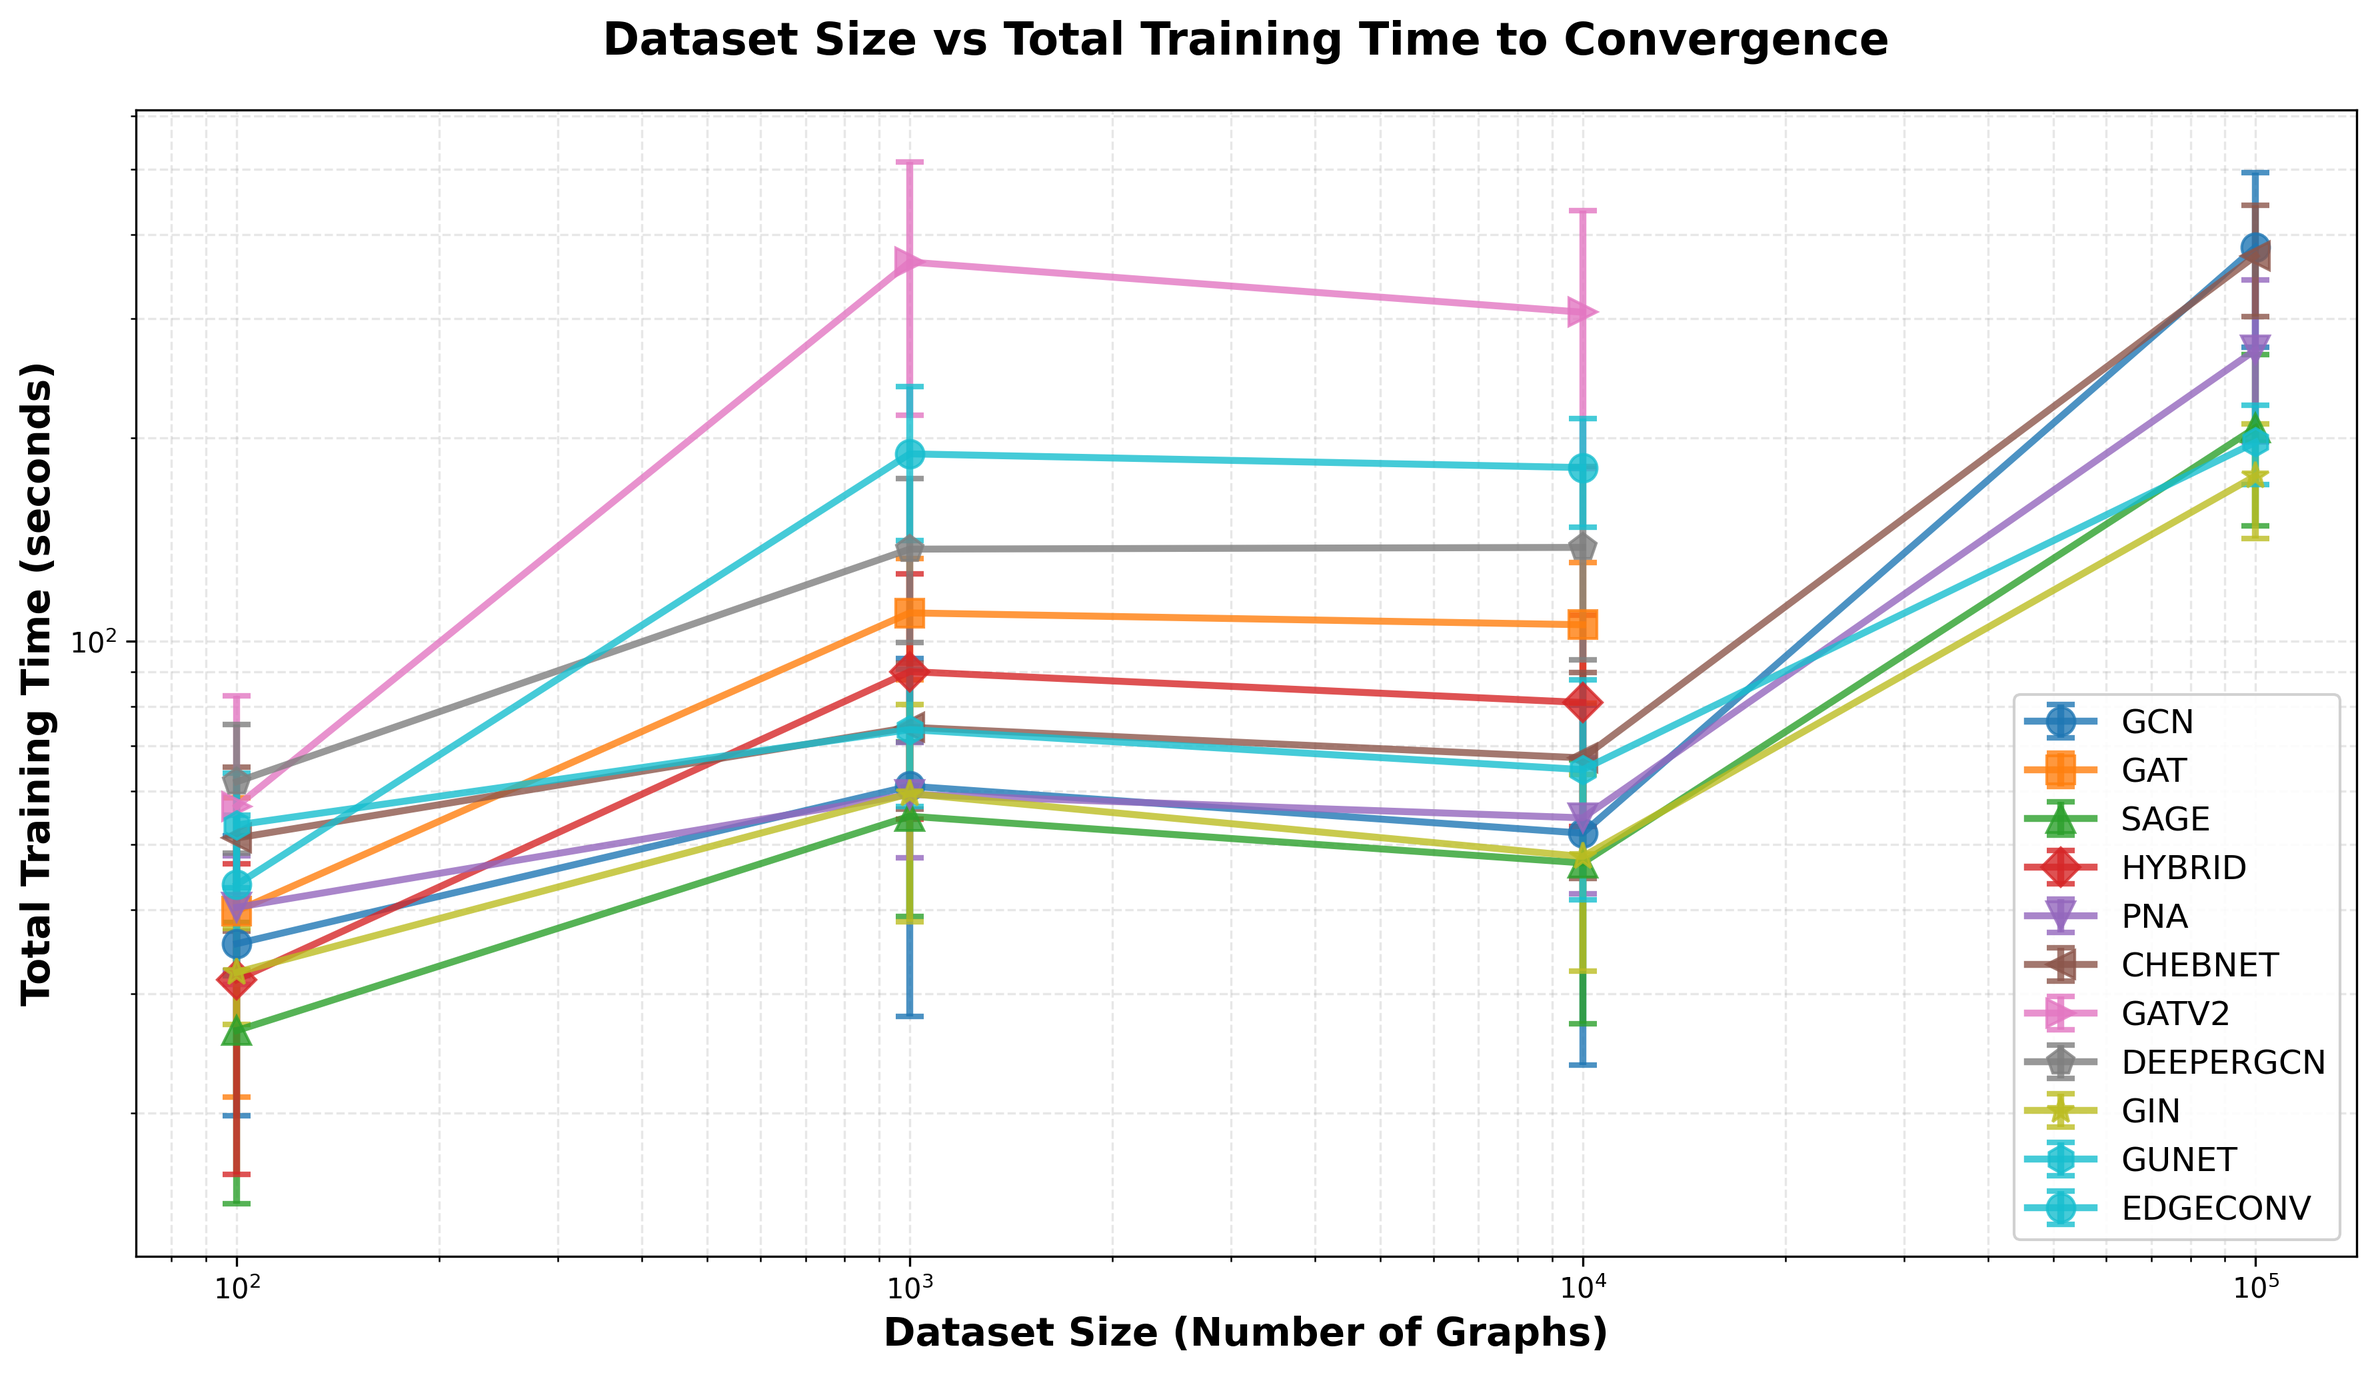
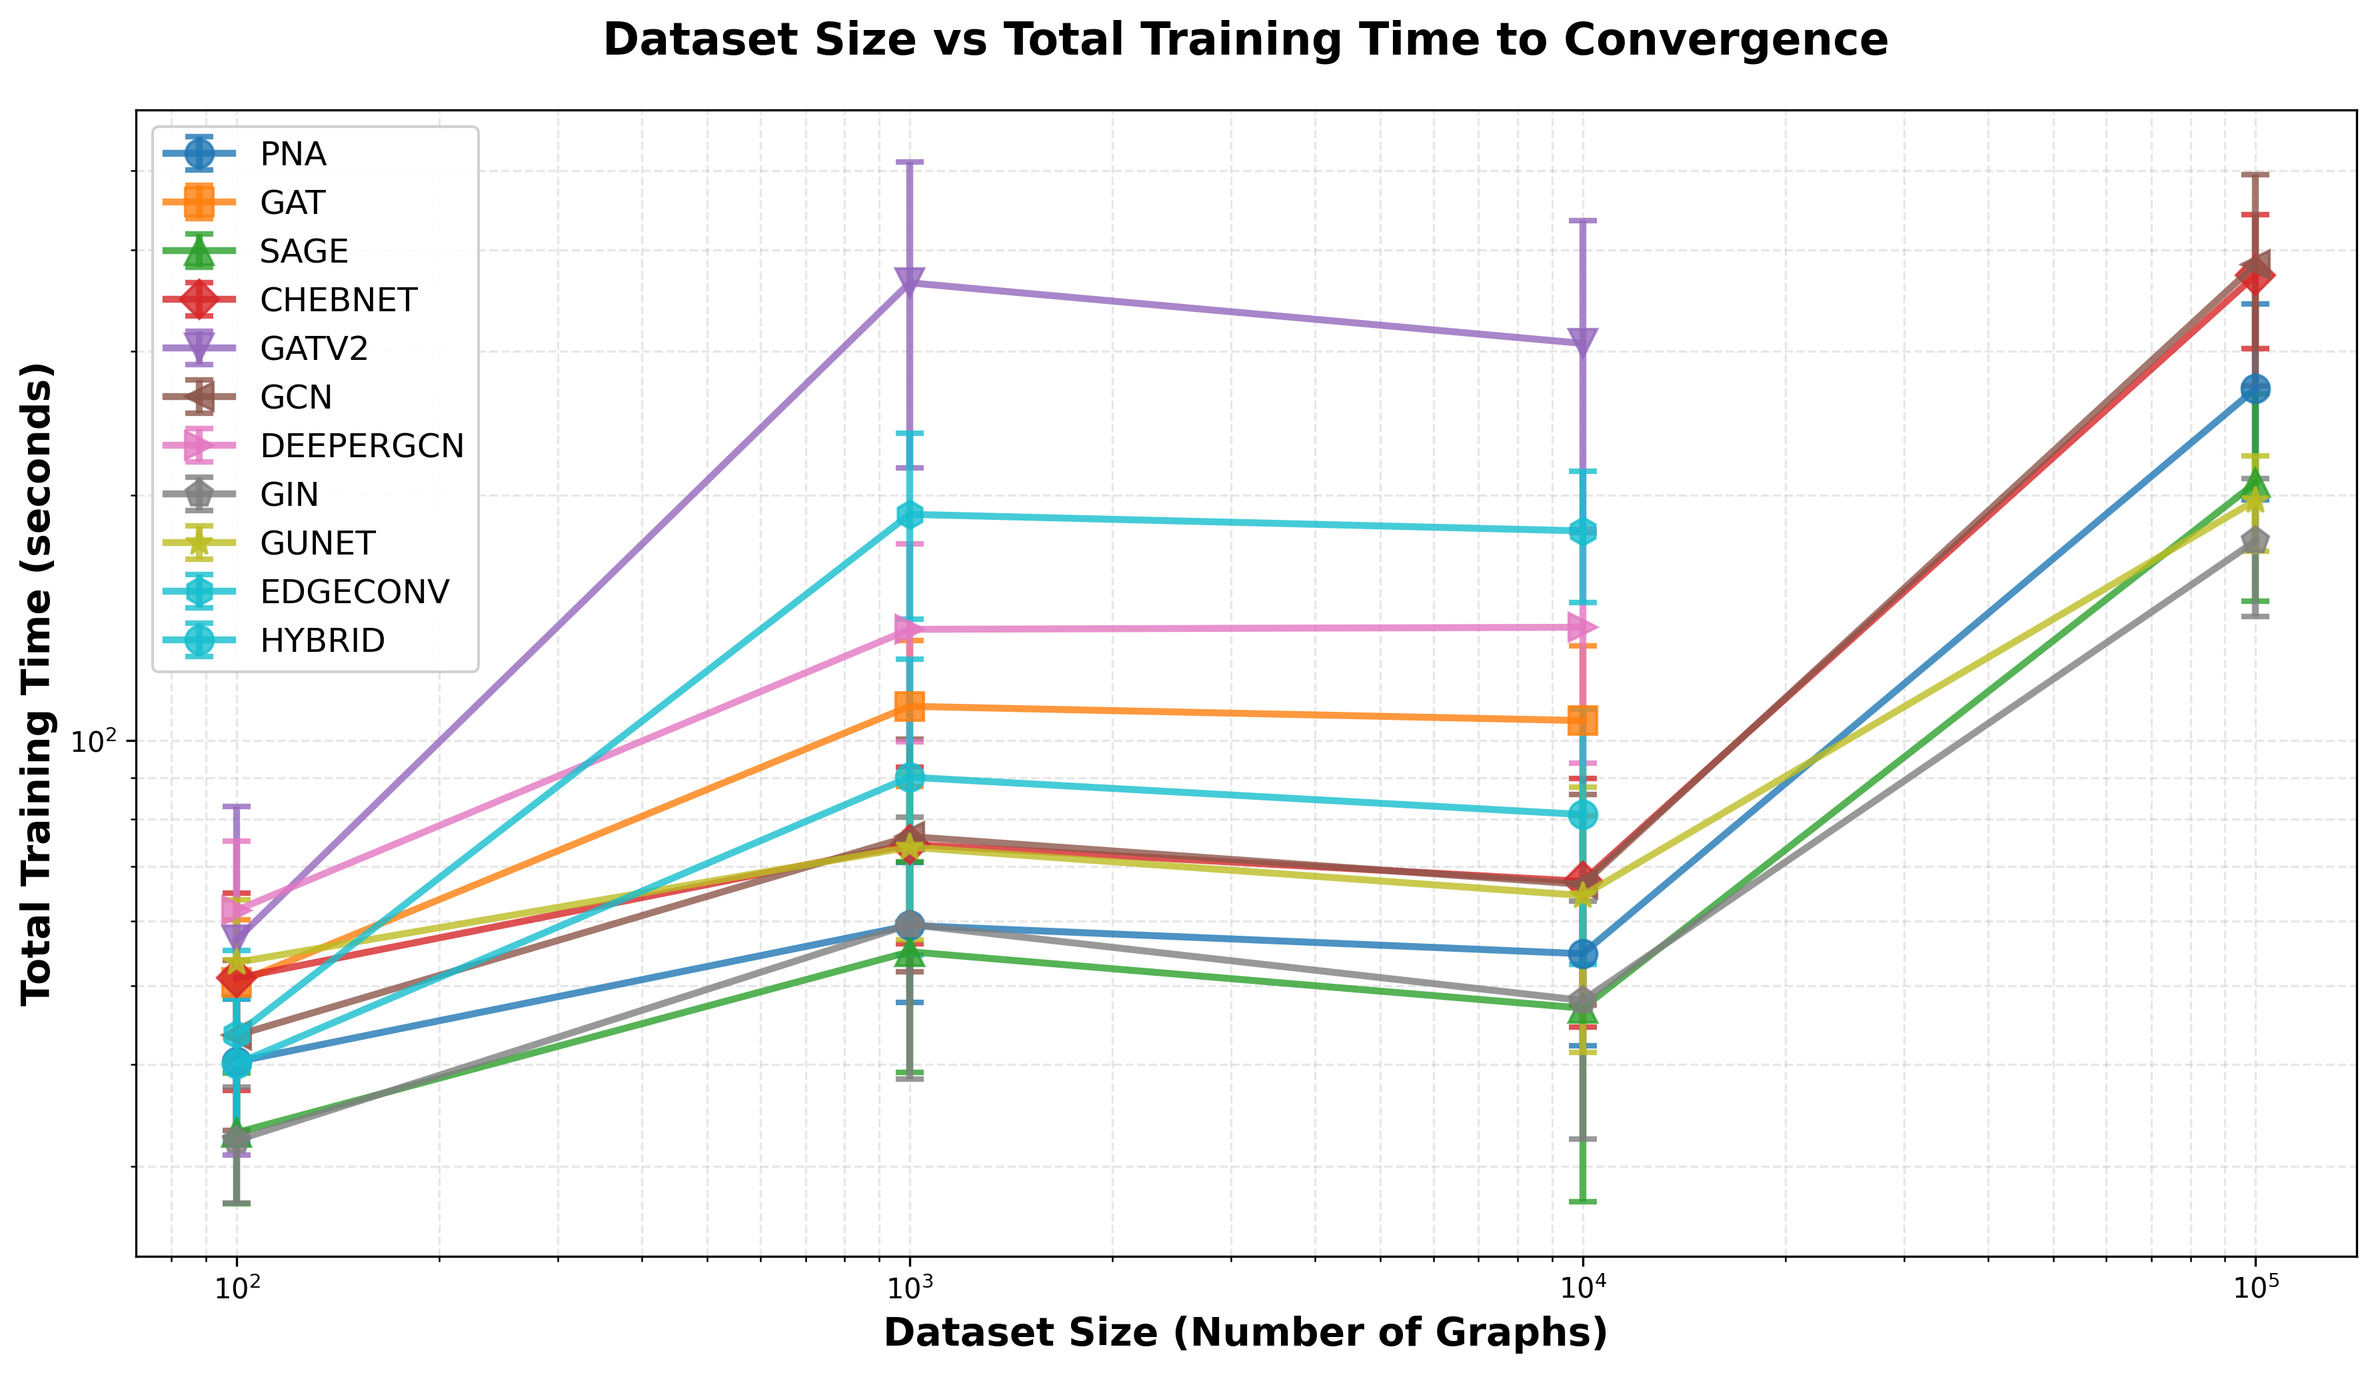
2

Changed region(s): [[0.0623, 0.0932, 0.9964, 0.901], [0.6539, 0.1553, 0.685, 0.1864], [0.0311, 0.5282, 0.0623, 0.5592]]

diff --git a/CVPR/src/GCNs/plot_from_csv.py b/CVPR/src/GCNs/plot_from_csv.py
@@ -230,9 +230,16 @@ def collect_scaling_data(result_base_dir='result'):
         
     Returns:
         dict: 包含各个模型在不同规模下的时间数据
-              格式: {model_name: {graph_size: {'total_time': [], 'avg_time': [], 'time_per_graph': []}}}
+              格式: {model_name: {graph_size: {'total_time': [], 'avg_time': [], 'time_per_graph': [], 'time_per_graph_per_epoch': []}}}
     """
-    data = defaultdict(lambda: defaultdict(lambda: {'total_time': [], 'avg_time': [], 'time_per_graph': [], 'time_per_graph_ms': []}))
+    data = defaultdict(lambda: defaultdict(lambda: {
+        'total_time': [], 
+        'avg_time': [], 
+        'time_per_graph': [], 
+        'time_per_graph_ms': [],
+        'time_per_graph_per_epoch': [],
+        'time_per_graph_per_epoch_ms': []
+    }))
     
     # 遍历所有experiment_results.json文件（优先，包含完整信息）
     result_path = Path(result_base_dir)
@@ -268,6 +275,8 @@ def collect_scaling_data(result_base_dir='result'):
                 avg_time = time_stats.get('avg_training_time_per_epoch')
                 time_per_graph = time_stats.get('time_per_graph')
                 time_per_graph_ms = time_stats.get('time_per_graph_ms')
+                time_per_graph_per_epoch = time_stats.get('time_per_graph_per_epoch')
+                time_per_graph_per_epoch_ms = time_stats.get('time_per_graph_per_epoch_ms')
                 
                 if total_time is not None and avg_time is not None:
                     data[model_name][graph_size]['total_time'].append(total_time)
@@ -276,6 +285,10 @@ def collect_scaling_data(result_base_dir='result'):
                         data[model_name][graph_size]['time_per_graph'].append(time_per_graph)
                     if time_per_graph_ms is not None:
                         data[model_name][graph_size]['time_per_graph_ms'].append(time_per_graph_ms)
+                    if time_per_graph_per_epoch is not None:
+                        data[model_name][graph_size]['time_per_graph_per_epoch'].append(time_per_graph_per_epoch)
+                    if time_per_graph_per_epoch_ms is not None:
+                        data[model_name][graph_size]['time_per_graph_per_epoch_ms'].append(time_per_graph_per_epoch_ms)
         
         except Exception as e:
             print(f"警告: 处理JSON文件 {json_file} 时出错: {e}")
@@ -361,12 +374,18 @@ def plot_scaling_analysis(result_base_dir='result', output_dir='scaling_plots', 
         time_per_graph_std = []
         time_per_graph_ms_mean = []
         time_per_graph_ms_std = []
+        time_per_graph_per_epoch_mean = []
+        time_per_graph_per_epoch_std = []
+        time_per_graph_per_epoch_ms_mean = []
+        time_per_graph_per_epoch_ms_std = []
         
         for size in sizes:
             total_time_list = size_data[size]['total_time']
             avg_time_list = size_data[size]['avg_time']
             time_per_graph_list = size_data[size]['time_per_graph']
             time_per_graph_ms_list = size_data[size]['time_per_graph_ms']
+            time_per_graph_per_epoch_list = size_data[size]['time_per_graph_per_epoch']
+            time_per_graph_per_epoch_ms_list = size_data[size]['time_per_graph_per_epoch_ms']
             
             total_times_mean.append(np.mean(total_time_list))
             total_times_std.append(np.std(total_time_list))
@@ -386,6 +405,20 @@ def plot_scaling_analysis(result_base_dir='result', output_dir='scaling_plots', 
             else:
                 time_per_graph_ms_mean.append(0)
                 time_per_graph_ms_std.append(0)
+            
+            if time_per_graph_per_epoch_list:
+                time_per_graph_per_epoch_mean.append(np.mean(time_per_graph_per_epoch_list))
+                time_per_graph_per_epoch_std.append(np.std(time_per_graph_per_epoch_list))
+            else:
+                time_per_graph_per_epoch_mean.append(0)
+                time_per_graph_per_epoch_std.append(0)
+            
+            if time_per_graph_per_epoch_ms_list:
+                time_per_graph_per_epoch_ms_mean.append(np.mean(time_per_graph_per_epoch_ms_list))
+                time_per_graph_per_epoch_ms_std.append(np.std(time_per_graph_per_epoch_ms_list))
+            else:
+                time_per_graph_per_epoch_ms_mean.append(0)
+                time_per_graph_per_epoch_ms_std.append(0)
         
         model_data[model_name] = {
             'sizes': sizes,
@@ -396,7 +429,11 @@ def plot_scaling_analysis(result_base_dir='result', output_dir='scaling_plots', 
             'time_per_graph_mean': time_per_graph_mean,
             'time_per_graph_std': time_per_graph_std,
             'time_per_graph_ms_mean': time_per_graph_ms_mean,
-            'time_per_graph_ms_std': time_per_graph_ms_std
+            'time_per_graph_ms_std': time_per_graph_ms_std,
+            'time_per_graph_per_epoch_mean': time_per_graph_per_epoch_mean,
+            'time_per_graph_per_epoch_std': time_per_graph_per_epoch_std,
+            'time_per_graph_per_epoch_ms_mean': time_per_graph_per_epoch_ms_mean,
+            'time_per_graph_per_epoch_ms_std': time_per_graph_per_epoch_ms_std
         }
     
     colors = plt.cm.tab10(np.linspace(0, 1, len(model_data)))
@@ -507,6 +544,51 @@ def plot_scaling_analysis(result_base_dir='result', output_dir='scaling_plots', 
         print(f"✅ Time per graph plot saved: {output_path}")
     else:
         print("⚠  未找到每个图执行时间数据，跳过该图表")
+    
+    # === Figure 4: Time per Graph per Epoch vs Dataset Size ===
+    has_time_per_graph_per_epoch = any(
+        any(t > 0 for t in mdata['time_per_graph_per_epoch_ms_mean'])
+        for mdata in model_data.values()
+    )
+    
+    if has_time_per_graph_per_epoch:
+        plt.figure(figsize=(12, 7))
+        
+        for idx, (model_name, mdata) in enumerate(model_data.items()):
+            sizes = mdata['sizes']
+            means = mdata['time_per_graph_per_epoch_ms_mean']
+            stds = mdata['time_per_graph_per_epoch_ms_std']
+            
+            # 过滤掉0值
+            filtered_data = [(s, m, std) for s, m, std in zip(sizes, means, stds) if m > 0]
+            if not filtered_data:
+                continue
+            
+            sizes_filtered, means_filtered, stds_filtered = zip(*filtered_data)
+            
+            plt.errorbar(sizes_filtered, means_filtered, yerr=stds_filtered, 
+                        marker=markers[idx % len(markers)], 
+                        linewidth=2.5, markersize=10,
+                        capsize=5, capthick=2,
+                        label=model_name.upper(), 
+                        color=colors[idx],
+                        alpha=0.8)
+        
+        plt.xlabel('Dataset Size (Number of Graphs)', fontsize=14, fontweight='bold')
+        plt.ylabel('Time per Graph per Epoch (milliseconds)', fontsize=14, fontweight='bold')
+        plt.title('Dataset Size vs Time per Graph per Epoch', fontsize=16, fontweight='bold', pad=20)
+        plt.xscale('log')
+        plt.yscale('log')
+        plt.grid(True, alpha=0.3, linestyle='--', which='both')
+        plt.legend(fontsize=12, loc='best', framealpha=0.9)
+        plt.tight_layout()
+        
+        output_path = f'{output_dir}/time_per_graph_per_epoch_vs_scale.png'
+        plt.savefig(output_path, dpi=300, bbox_inches='tight')
+        plt.close()
+        print(f"✅ Time per graph per epoch plot saved: {output_path}")
+    else:
+        print("⚠  未找到每个图在单个epoch中执行时间数据，跳过该图表")
     
     # === Print Statistics ===
     print("\n" + "=" * 80)

diff --git a/CVPR/src/GCNs/run.py b/CVPR/src/GCNs/run.py
@@ -142,8 +142,10 @@ def save_training_history_csv(history, result_dir='result'):
     
     data = {
         'epoch': list(range(1, num_epochs + 1)),
-        'epoch_time': history['epoch_times'],
-        'cumulative_time': history['cumulative_times'],
+        'train_time': history['train_times'],  # 每epoch训练时间
+        'val_time': history['val_times'],  # 每epoch验证时间
+        'epoch_time': history['epoch_times'],  # 每epoch总时间
+        'cumulative_train_time': history['cumulative_train_times'],  # 累积训练时间
         'train_loss': history['train']['loss'],
         'train_accuracy': history['train']['accuracy'],
         'train_precision': history['train']['precision'],
@@ -776,6 +778,9 @@ def run_experiment(args):
     # 计算每个图的平均执行时间（仅基于训练集）
     time_per_graph = total_training_time / num_train_graphs if num_train_graphs > 0 else 0
     
+    # 计算每个图在单个epoch中的平均执行时间（另一种计算方式）
+    time_per_graph_per_epoch = avg_training_time / num_train_graphs if num_train_graphs > 0 else 0
+    
     # 测试
     print(f"\n在测试集上评估...")
     test_metrics = evaluate_model(model, test_loader, device)
@@ -799,7 +804,8 @@ def run_experiment(args):
     print(f"  - 总验证时间: {total_val_time:.3f}秒")
     print(f"  - 训练+验证总时间: {total_time_with_val:.3f}秒")
     print(f"  - 平均训练时间（每epoch，仅训练集）: {avg_training_time:.3f}秒")
-    print(f"  - 每个图的平均执行时间（仅训练集）: {time_per_graph:.6f}秒/图 ({time_per_graph*1000:.3f}毫秒/图)")
+    print(f"  - 每个图的平均执行时间（整个训练过程）: {time_per_graph:.6f}秒/图 ({time_per_graph*1000:.3f}毫秒/图)")
+    print(f"  - 每个图的平均执行时间（单个epoch）: {time_per_graph_per_epoch:.6f}秒/图 ({time_per_graph_per_epoch*1000:.3f}毫秒/图)")
     print(f"  - 训练集图数: {num_train_graphs}")
     print(f"  - 脚本总运行时间: {total_elapsed_time:.2f}秒")
     
@@ -910,8 +916,10 @@ def run_experiment(args):
                 "total_val_time": float(total_val_time),  # 总验证时间
                 "total_time_with_val": float(total_time_with_val),  # 训练+验证总时间
                 "avg_training_time_per_epoch": float(avg_training_time),  # 核心指标2: 平均每epoch训练时间（仅训练集）
-                "time_per_graph": float(time_per_graph),  # 核心指标3: 每个图的平均执行时间（仅训练集）
-                "time_per_graph_ms": float(time_per_graph * 1000),  # 每个图的平均执行时间（毫秒，仅训练集）
+                "time_per_graph": float(time_per_graph),  # 核心指标3: 每个图的平均执行时间（整个训练过程）
+                "time_per_graph_ms": float(time_per_graph * 1000),  # 每个图的平均执行时间（毫秒，整个训练过程）
+                "time_per_graph_per_epoch": float(time_per_graph_per_epoch),  # 核心指标4: 每个图在单个epoch中的平均执行时间
+                "time_per_graph_per_epoch_ms": float(time_per_graph_per_epoch * 1000),  # 每个图在单个epoch中的平均执行时间（毫秒）
                 "num_train_graphs": num_train_graphs,
                 "num_total_graphs": total_graphs,
                 "actual_epochs": actual_epochs,
@@ -957,8 +965,10 @@ def run_experiment(args):
         'actual_epochs': actual_epochs,
         'total_training_time': float(total_training_time),  # 核心指标1: 总训练时间
         'avg_training_time': float(avg_training_time),  # 核心指标2: 平均训练时间
-        'time_per_graph': float(time_per_graph),  # 核心指标3: 每个图的平均执行时间
+        'time_per_graph': float(time_per_graph),  # 核心指标3: 每个图的平均执行时间（整个训练过程）
         'time_per_graph_ms': float(time_per_graph * 1000),
+        'time_per_graph_per_epoch': float(time_per_graph_per_epoch),  # 核心指标4: 每个图在单个epoch中的平均执行时间
+        'time_per_graph_per_epoch_ms': float(time_per_graph_per_epoch * 1000),
         'num_train_graphs': num_train_graphs,
         'avg_epoch_time': float(np.mean(history['epoch_times'])) if history['epoch_times'] else 0,
         'total_elapsed_time': total_elapsed_time,
@@ -1108,6 +1118,8 @@ def main():
                 'avg_training_time': float(result['avg_training_time']),
                 'time_per_graph': float(result['time_per_graph']),
                 'time_per_graph_ms': float(result['time_per_graph_ms']),
+                'time_per_graph_per_epoch': float(result['time_per_graph_per_epoch']),
+                'time_per_graph_per_epoch_ms': float(result['time_per_graph_per_epoch_ms']),
                 'num_train_graphs': int(result['num_train_graphs']),
                 'avg_epoch_time': float(result['avg_epoch_time']),
                 'total_elapsed_time': float(result['total_elapsed_time']),
@@ -1131,6 +1143,8 @@ def main():
         avg_training_times = [r['avg_training_time'] for r in all_results]
         times_per_graph = [r['time_per_graph'] for r in all_results]
         times_per_graph_ms = [r['time_per_graph_ms'] for r in all_results]
+        times_per_graph_per_epoch = [r['time_per_graph_per_epoch'] for r in all_results]
+        times_per_graph_per_epoch_ms = [r['time_per_graph_per_epoch_ms'] for r in all_results]
         avg_epoch_times = [r['avg_epoch_time'] for r in all_results]
         total_elapsed_times = [r['total_elapsed_time'] for r in all_results]
         peak_cpu_mems = [r['peak_cpu_memory_mb'] for r in all_results]
@@ -1185,6 +1199,8 @@ def main():
                     'avg_training_time_per_epoch': {'mean': float(np.mean(avg_training_times)), 'std': float(np.std(avg_training_times))},
                     'time_per_graph': {'mean': float(np.mean(times_per_graph)), 'std': float(np.std(times_per_graph))},
                     'time_per_graph_ms': {'mean': float(np.mean(times_per_graph_ms)), 'std': float(np.std(times_per_graph_ms))},
+                    'time_per_graph_per_epoch': {'mean': float(np.mean(times_per_graph_per_epoch)), 'std': float(np.std(times_per_graph_per_epoch))},
+                    'time_per_graph_per_epoch_ms': {'mean': float(np.mean(times_per_graph_per_epoch_ms)), 'std': float(np.std(times_per_graph_per_epoch_ms))},
                     'avg_epoch_time': {'mean': float(np.mean(avg_epoch_times)), 'std': float(np.std(avg_epoch_times))},
                     'total_elapsed_time': {'mean': float(np.mean(total_elapsed_times)), 'std': float(np.std(total_elapsed_times))},
                     'peak_cpu_memory_mb': {'mean': float(np.mean(peak_cpu_mems)), 'std': float(np.std(peak_cpu_mems))},
